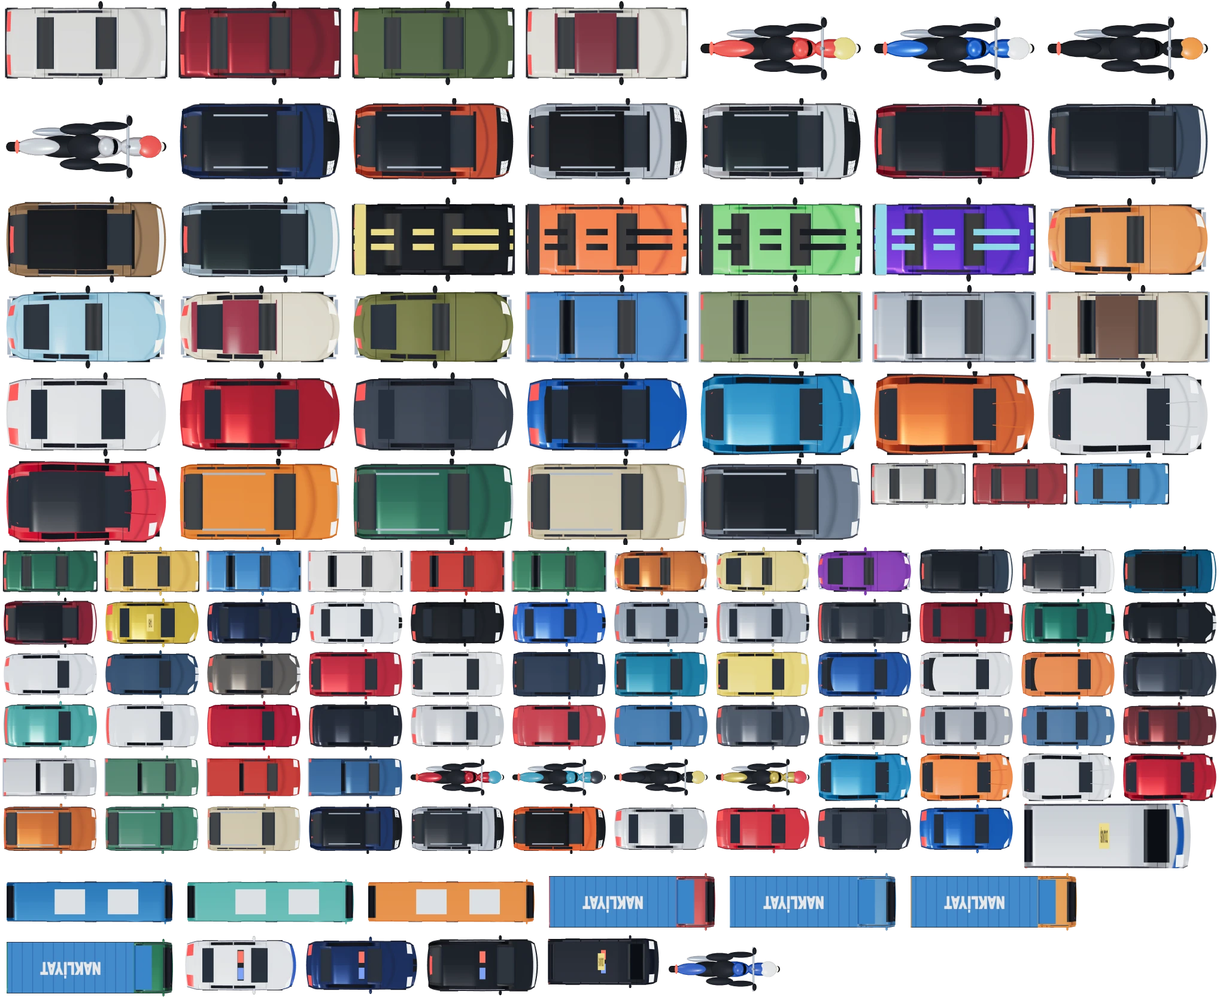
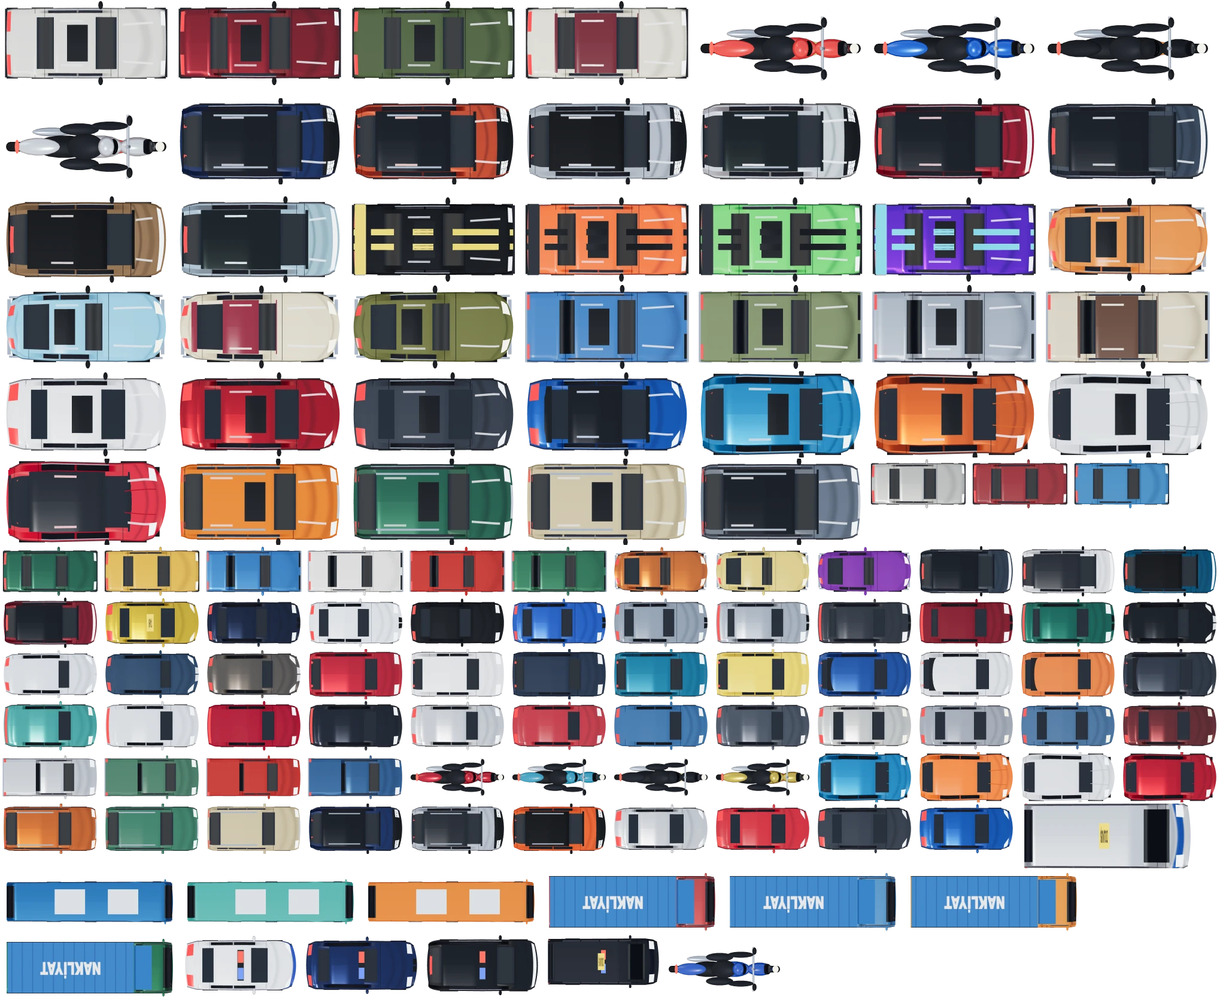
v6 C: araç detayları, jantlar, oyuncu ayrımı, zayıf silüetler; yüksek bina oranı
Claude-Session: https://claude.ai/code/session_017aUZs3MnBgndaW8jCs4UVv

diff --git a/js/app.file.js b/js/app.file.js
@@ -55,8 +55,8 @@ const CONFIG = {
     sistemRing: [4, 9],
     // Bina yüksekliği: share yüksek bina oranı, height kameraya uzanma payı
     // ruin ve work: sıradan mahallede harabe ve inşaat, fire: yangın olasılığı
-    tall: { share: 0.14, height: [0.1, 0.24], maxPerChunk: 14 },
-    ruin: 0.035, work: 0.04, fire: 0.008, ruinFire: 0.2,
+    tall: { share: 0.62, height: [0.16, 0.42], maxPerChunk: 16 },
+    ruin: 0.035, work: 0.04, fire: 0.008, ruinFire: 0.07,
     // Otoban: her satırı doğudan batıya kesen geniş yol. every: kaç chunk'ta bir, y0: bant başlangıç karosu
     // half: bir yönün karo sayısı, lanes: yön başına şerit
     highway: { every: 10, offset: 2, y0: 10, half: 5, lanes: 4 },
@@ -204,6 +204,9 @@ const CONFIG = {
     beamPull: 300, // Oyuncuyu merkeze çekme
     beamSlow: 0.55, // Işın altında hız kaybı (saniyede oran)
   },
+
+  // Oyuncu aracının altındaki ışık: NPC'lerden ayrılır
+  playerGlow: { alpha: 0.34, scale: 1.5 },
 
   // Derin su: sahil, göl, gölet. Sığ suya girilir, derine düşen araç batar
   water: { sinkTime: 2.3, bubbleEvery: 0.06, shrink: 0.5, spin: 1.5, deepProbe: 6 },
@@ -1385,7 +1388,7 @@ class World {
       // Tohumdan türetilir: rastgele sayı dizisini bozmaz
       const h = ((r.seed * 2654435761) >>> 0) / 4294967296;
       if ((tower || (plain && h < T.share)) && c.talls.length < T.maxPerChunk) {
-        r.tall = T.height[0] + (T.height[1] - T.height[0]) * (tower ? 0.45 + 0.55 * h : h / T.share * 0.55);
+        r.tall = T.height[0] + (T.height[1] - T.height[0]) * (tower ? 0.5 + 0.5 * h : (h / T.share) * 0.6);
         if (r.style === S.SKYSCRAPER) r.tall = T.height[1];
         c.talls.push(r);
       }
@@ -6569,7 +6572,7 @@ function sheetSprite(key, len) {
   g.shadowColor = 'rgba(0,0,0,.95)'; g.shadowBlur = 3.6 * q;
   g.drawImage(ATLAS.img, x, y, w, h, 0, 0, w, h);
   g.drawImage(ATLAS.img, x, y, w, h, 0, 0, w, h);
-  g.shadowColor = 'rgba(255,255,255,.8)'; g.shadowBlur = 1 * q;
+  g.shadowColor = 'rgba(255,255,255,.9)'; g.shadowBlur = 1.2 * q;
   g.drawImage(ATLAS.img, x, y, w, h, 0, 0, w, h);
   g.shadowColor = 'transparent'; g.shadowBlur = 0;
   g.drawImage(ATLAS.img, x, y, w, h, 0, 0, w, h);
@@ -6724,8 +6727,8 @@ const CAR_MODELS = {
     win: [[0.37, 0.56], [0.57, 0.77]], seams: [0.27, 0.565, 0.78], handles: [0.54, 0.75], hood: 0.27, trunk: 0.88,
     top: [{ s0: 0.035, s1: 0.085, a: 0.48, b: 0.9, b1: 0.97, a1: 0.8, c: LED, glow: 1 }, { s0: 0.93, s1: 0.99, a: 0.42, b: 0.92, c: RED, glow: 1 }],
     front(d) {
-      d.poly([[-0.42, 0.72], [0.42, 0.72], [0.34, 0.54], [-0.34, 0.54]], BLK);
-      d.polyLine([[-0.42, 0.72], [0.42, 0.72], [0.34, 0.54], [-0.34, 0.54]], CRM, 0.02);
+      d.poly([[-0.5, 0.74], [0.5, 0.74], [0.38, 0.52], [-0.38, 0.52]], BLK);
+      d.polyLine([[-0.5, 0.74], [0.5, 0.74], [0.38, 0.52], [-0.38, 0.52]], CRM, 0.028);
       for (let z = 0.58; z < 0.7; z += 0.04) d.box(0, z, 0.68, 0.012, CRM);
       d.polyB([[0.46, 0.76], [0.86, 0.84], [0.8, 0.72], [0.48, 0.68]], LED);
       d.box(0, 0.32, 1.1, 0.12, BLK, 0.03);
@@ -6794,8 +6797,8 @@ const CAR_MODELS = {
     features: ['Uzun kaput, kabin geride, sportif sedan', 'İkiz böbrek ızgara', 'Köşeli çift halkalı far', 'C direğinde geriye kıvrılan cam ucu', 'L biçimli yatay stoplar'],
     plan: [[0, 0.78], [0.03, 0.92], [0.12, 0.98], [0.5, 1], [0.93, 0.98], [1, 0.86]],
     deck: [[0, 0.58], [0.03, 0.74], [0.3, 0.92], [0.4, 0.96], [0.82, 1.0], [0.97, 0.99], [1, 0.76]],
-    roof: [[0.3, 0.92], [0.46, 1.38], [0.6, 1.44], [0.76, 1.38], [0.88, 1.02], [0.9, 1.0]],
-    win: [[0.41, 0.59], [0.6, 0.79]], seams: [0.33, 0.6, 0.8], handles: [0.57, 0.77], hood: 0.33, trunk: 0.89,
+    roof: [[0.34, 0.94], [0.49, 1.38], [0.62, 1.44], [0.78, 1.38], [0.9, 1.02], [0.92, 1.0]],
+    win: [[0.44, 0.61], [0.62, 0.8]], seams: [0.33, 0.6, 0.8], handles: [0.57, 0.77], hood: 0.33, trunk: 0.89,
     top: [{ s0: 0.035, s1: 0.085, a: 0.5, b: 0.92, c: LED, glow: 1 }, { s0: 0.955, s1: 0.99, a: 0.45, b: 0.92, c: RED, glow: 1 }, { s0: 0.0, s1: 0.035, a: 0.03, b: 0.3, c: BLK }],
     front(d) {
       for (const s of [-1, 1]) { d.round(s * 0.17, 0.62, 0.3, 0.2, CRM, 0.05); d.round(s * 0.17, 0.62, 0.26, 0.17, BLK, 0.04); for (let y = -0.1; y <= 0.1; y += 0.04) d.box(s * 0.17 + y, 0.62, 0.012, 0.15, '#6a727c'); }
@@ -6811,7 +6814,7 @@ const CAR_MODELS = {
     features: ['Keskin omuz çizgili, yatay duruşlu sedan', 'Tek parça altıgen dev ızgara', 'Dar yatay LED far', 'Düz bagaj kapağı', 'Boydan boya ışık bandı'],
     plan: [[0, 0.8], [0.025, 0.93], [0.1, 0.99], [0.5, 1], [0.95, 0.99], [1, 0.88]],
     deck: [[0, 0.6], [0.03, 0.76], [0.26, 0.93], [0.34, 0.97], [0.82, 1.03], [0.975, 1.03], [1, 0.8]],
-    roof: [[0.26, 0.93], [0.43, 1.37], [0.58, 1.43], [0.75, 1.37], [0.875, 1.05], [0.89, 1.03]],
+    roof: [[0.26, 0.93], [0.42, 1.38], [0.5, 1.43], [0.7, 1.43], [0.8, 1.32], [0.88, 1.05], [0.895, 1.03]],
     win: [[0.38, 0.57], [0.58, 0.77]], seams: [0.3, 0.58, 0.79], handles: [0.55, 0.75], hood: 0.3, trunk: 0.885,
     top: [{ s0: 0.03, s1: 0.09, a: 0.46, b: 0.94, c: LED, glow: 1 }, { s0: 0.965, s1: 0.992, a: 0, b: 0.93, c: RED, glow: 1 }, { s0: 0, s1: 0.03, a: 0.05, b: 0.42, c: BLK }],
     front(d) {
@@ -6829,7 +6832,7 @@ const CAR_MODELS = {
     features: ['Yumuşak kavisli lüks sedan, yay çizen tavan', 'Ortada iki yatay barlı krom ızgara', 'Kaput ucunda dik amblem', 'Geriye uzanan oval farlar', 'Yuvarlak omuzlu bagaj, oval stop'],
     plan: [[0, 0.76], [0.03, 0.9], [0.12, 0.98], [0.5, 1], [0.92, 0.97], [1, 0.82]],
     deck: [[0, 0.6], [0.03, 0.76], [0.28, 0.93], [0.38, 0.97], [0.8, 1.02], [0.96, 1.0], [1, 0.78]],
-    roof: [[0.28, 0.93], [0.44, 1.38], [0.58, 1.45], [0.74, 1.38], [0.89, 1.04], [0.91, 1.02]],
+    roof: [[0.28, 0.93], [0.42, 1.36], [0.54, 1.45], [0.66, 1.44], [0.78, 1.32], [0.9, 1.04], [0.92, 1.02]],
     win: [[0.4, 0.59], [0.6, 0.79]], seams: [0.31, 0.6, 0.8], handles: [0.57, 0.77], hood: 0.31, trunk: 0.9, hoodStar: 1,
     top: [{ s0: 0.04, s1: 0.11, a: 0.5, b: 0.86, b1: 0.95, a1: 0.8, c: LED, glow: 1 }, { s0: 0.95, s1: 0.99, a: 0.45, b: 0.9, c: RED, glow: 1 }, { s0: 0, s1: 0.035, a: 0.03, b: 0.4, c: CRM }],
     front(d) {
@@ -6847,7 +6850,7 @@ const CAR_MODELS = {
     plan: [[0, 0.82], [0.025, 0.94], [0.1, 0.99], [0.5, 1], [0.94, 0.99], [1, 0.9]],
     deck: [[0, 0.62], [0.03, 0.8], [0.26, 0.97], [0.32, 1.0], [0.8, 1.04], [0.97, 1.05], [1, 0.82]],
     roof: [[0.26, 0.97], [0.41, 1.4], [0.58, 1.45], [0.87, 1.4], [0.965, 1.1], [0.98, 1.05]],
-    win: [[0.38, 0.58], [0.59, 0.76]], seams: [0.3, 0.585, 0.8], handles: [0.56, 0.75], hood: 0.3, trunk: 0.96,
+    win: [[0.38, 0.58], [0.59, 0.72]], seams: [0.3, 0.585, 0.8], handles: [0.56, 0.72], hood: 0.3, trunk: 0.96,
     top: [{ s0: 0.025, s1: 0.08, a: 0.48, b: 0.94, c: LED, glow: 1 }, { s0: 0.96, s1: 0.992, a: 0.5, b: 0.94, c: RED, glow: 1 }],
     front(d) {
       d.box(0, 0.72, 1.56, 0.1, BLK, 0.02); d.box(0, 0.74, 1.58, 0.015, CRM);
@@ -7101,8 +7104,11 @@ function wheelTexture(THREE, style, premium, caliper) {
   const g = c.getContext('2d');
   g.translate(128, 128);
   g.fillStyle = '#0a0b0e'; g.beginPath(); g.arc(0, 0, 128, 0, 7); g.fill();
+  g.strokeStyle = '#26282d'; g.lineWidth = 5; g.beginPath(); g.arc(0, 0, 113, 0, 7); g.stroke();
   const rimC = premium ? '#eef2f6' : '#b9c2cc';
-  g.fillStyle = '#20242a'; g.beginPath(); g.arc(0, 0, 96, 0, 7); g.fill();
+  const deep = g.createRadialGradient(0, 0, 20, 0, 0, 96);
+  deep.addColorStop(0, '#34383f'); deep.addColorStop(1, '#0e1014');
+  g.fillStyle = deep; g.beginPath(); g.arc(0, 0, 96, 0, 7); g.fill();
   if (premium && caliper) { g.fillStyle = caliper; g.fillRect(40, -30, 34, 60); }
   g.strokeStyle = rimC; g.fillStyle = rimC; g.lineCap = 'round';
   g.lineWidth = 7; g.beginPath(); g.arc(0, 0, 96, 0, 7); g.stroke();
@@ -7121,6 +7127,9 @@ function wheelTexture(THREE, style, premium, caliper) {
     g.beginPath(); g.arc(0, 0, 26, 0, 7); g.fill();
   }
   g.fillStyle = '#2a2e35'; g.beginPath(); g.arc(0, 0, 12, 0, 7); g.fill();
+  g.fillStyle = '#9aa3ad';
+  for (let i = 0; i < 5; i++) { const a = (i / 5) * 6.283 + 0.3; g.beginPath(); g.arc(Math.cos(a) * 20, Math.sin(a) * 20, 3.4, 0, 7); g.fill(); }
+  g.strokeStyle = premium ? '#ffffff' : '#dfe4e9'; g.lineWidth = 3; g.beginPath(); g.arc(0, 0, 99, 0, 7); g.stroke();
   const t = new THREE.CanvasTexture(c);
   t.colorSpace = THREE.SRGBColorSpace;
   return t;
@@ -7371,8 +7380,14 @@ function buildCar(THREE, id, paint) {
   }
   if (m.roofSpoiler) addBox(THREE, group, 0.34, 0.05, W * 0.74, (m.roof[m.roof.length - 2][0] - 0.1) * L, roofF(m.roof[m.roof.length - 2][0] - 0.1) + 0.02, 0, plastic);
   if (m.hoodStar) { const st = new THREE.Mesh(new THREE.CylinderGeometry(0.008, 0.02, 0.09, 6), chromeMat); st.position.set(0.05, deckF(0.02) + 0.09, 0); group.add(st); }
-  if (m.chromeBelt) {
-    const a = 0.3; const bd = 0.8;
+  if (paint.premium && paint.sprite) {
+    const roofA = m.win[0][0] + 0.06; const roofB = m.win[m.win.length - 1][1] - 0.08;
+    if (!m.roofBlack && !paint.roof) patch(roofA + 0.03, roofA + 0.16, 0, 0.52, 0, 0.52, '#0b1016', 0);
+    patch(0.08, Math.max(0.1, m.hood - 0.03), 0.56, 0.62, 0.5, 0.56, '#' + new THREE.Color(paint.color).lerp(new THREE.Color('#ffffff'), 0.5).getHexString(), 0);
+    patch(roofB - 0.14, roofB, 0.6, 0.66, 0.6, 0.66, '#' + new THREE.Color(paint.color).lerp(new THREE.Color('#ffffff'), 0.35).getHexString(), 0);
+  }
+  if (m.chromeBelt || paint.premium) {
+    const a = m.win[0][0]; const bd = m.win[m.win.length - 1][1];
     for (let i = 0; i < 20; i++) {
       const s = a + ((bd - a) * (i + 0.5)) / 20;
       for (const sg of [1, -1]) addBox(THREE, group, ((bd - a) * L) / 20 + 0.02, 0.025, 0.02, s * L, deckF(s) + 0.05, sg * (beltY(s) + 0.012), chromeMat);
@@ -7443,7 +7458,7 @@ function addCap(THREE, group, m, rear, tex, paintMat, halfW, bow, bottomAt, deck
     }
     if (i) { const a = (i - 1) * 2; if (rear) quad(panel, a, a + 2, a + 3, a + 1); else quad(panel, a, a + 1, a + 3, a + 2); }
   }
-  const mat = new THREE.MeshStandardMaterial({ map: tex, transparent: true, alphaTest: 0.04, roughness: 0.32, metalness: 0.15, emissive: '#ffffff', emissiveMap: tex, emissiveIntensity: 0.35 });
+  const mat = new THREE.MeshStandardMaterial({ map: tex, transparent: true, alphaTest: 0.04, roughness: 0.32, metalness: 0.15, emissive: '#ffffff', emissiveMap: tex, emissiveIntensity: 0.16 });
   group.add(mesh(THREE, panel, mat));
 }
 
@@ -7469,6 +7484,11 @@ function sideTexture(THREE, m, paint) {
   g.strokeStyle = 'rgba(0,0,0,.25)';
   g.lineWidth = 2;
   g.beginPath(); g.moveTo(0, Y(belt - 0.05)); g.lineTo(1024, Y(belt - 0.05)); g.stroke();
+  const ao = g.createLinearGradient(0, Y(belt * 0.62), 0, Y(0.1));
+  ao.addColorStop(0, 'rgba(0,0,0,0)'); ao.addColorStop(1, 'rgba(0,0,0,.42)');
+  g.fillStyle = ao; g.fillRect(0, Y(belt * 0.62), 1024, 256);
+  // Omuz kırımı: üstü aydınlık, altı gölge
+  g.fillStyle = 'rgba(0,0,0,.14)'; g.fillRect(0, Y(belt - 0.1), 1024, 5);
   if (m.clad) { g.fillStyle = '#1b1e23'; g.fillRect(0, Y(m.clad), 1024, 256 - Y(m.clad)); }
   if (m.skirt) { g.fillStyle = paint.accent || '#ffd23f'; g.fillRect(0, Y(0.3), 1024, 8); }
   if (m.sideStripe) { g.fillStyle = paint.accent || '#f6efe0'; g.fillRect(0, Y(m.sideStripe), 1024, 6); }
@@ -7507,7 +7527,9 @@ function buildMoto(THREE, paint) {
   tyre(0.32); tyre(1.78);
   ell(0.3, 0.13, 0.13, 0.86, 0.9, 0, pm); // Depo
   ell(0.24, 0.14, 0.11, 0.38, 0.88, 0, pm); // Kaporta
-  ell(0.16, 0.05, 0.13, 0.22, 0.98, 0, acc);
+  const shield = ell(0.04, 0.16, 0.09, 0.24, 1.04, 0, new THREE.MeshPhysicalMaterial({ color: '#10161d', metalness: 0.4, roughness: 0.08, clearcoat: 1 })); shield.rotation.z = 0.5;
+  ell(0.42, 0.06, 0.09, 0.82, 0.68, 0, acc); // Kaporta altı
+  for (const [a, b, c2, d] of [[0.45, 0.8, 1.2, 0.8], [0.45, 0.72, 1.2, 0.52], [0.9, 0.5, 1.5, 0.84]]) { const fr = new THREE.Mesh(new THREE.CylinderGeometry(0.018, 0.018, Math.hypot(c2 - a, d - b), 6), chrome); fr.position.set((a + c2) / 2, (b + d) / 2, 0); fr.rotation.z = Math.atan2(d - b, c2 - a) - Math.PI / 2; g.add(fr); }
   ell(0.4, 0.09, 0.13, 1.34, 0.86, 0, dark); // Sele
   const tail = ell(0.3, 0.07, 0.1, 1.68, 0.96, 0, pm); tail.rotation.z = -0.3;
   ell(0.2, 0.14, 0.11, 0.95, 0.5, 0, dark); // Motor
@@ -9531,6 +9553,15 @@ class Renderer {
       ctx.setTransform(this.s, 0, 0, this.s, this.ox, this.oy);
       return;
     }
+    // Oyuncu aracının altında boya rengine yakın ışık
+    const PG = CONFIG.playerGlow;
+    this.place(p.x, p.y, p.a);
+    ctx.globalCompositeOperation = 'lighter';
+    ctx.globalAlpha = PG.alpha * (game.ghostT > 0 ? 0.5 : 1);
+    const gw = p.len * PG.scale; const gh = p.wid * PG.scale * 1.3;
+    ctx.drawImage(this.sprites.auras[3], -gw / 2, -gh / 2, gw, gh);
+    ctx.globalCompositeOperation = 'source-over';
+    ctx.globalAlpha = game.ghostT > 0 ? 0.5 : 1;
     this.drawBody(this.playerSprite, p, k, k);
     ctx.globalAlpha = 1;
     if (game.stage >= 2) {

diff --git a/js/car3d.js b/js/car3d.js
@@ -111,8 +111,11 @@ function wheelTexture(THREE, style, premium, caliper) {
   const g = c.getContext('2d');
   g.translate(128, 128);
   g.fillStyle = '#0a0b0e'; g.beginPath(); g.arc(0, 0, 128, 0, 7); g.fill();
+  g.strokeStyle = '#26282d'; g.lineWidth = 5; g.beginPath(); g.arc(0, 0, 113, 0, 7); g.stroke();
   const rimC = premium ? '#eef2f6' : '#b9c2cc';
-  g.fillStyle = '#20242a'; g.beginPath(); g.arc(0, 0, 96, 0, 7); g.fill();
+  const deep = g.createRadialGradient(0, 0, 20, 0, 0, 96);
+  deep.addColorStop(0, '#34383f'); deep.addColorStop(1, '#0e1014');
+  g.fillStyle = deep; g.beginPath(); g.arc(0, 0, 96, 0, 7); g.fill();
   if (premium && caliper) { g.fillStyle = caliper; g.fillRect(40, -30, 34, 60); }
   g.strokeStyle = rimC; g.fillStyle = rimC; g.lineCap = 'round';
   g.lineWidth = 7; g.beginPath(); g.arc(0, 0, 96, 0, 7); g.stroke();
@@ -131,6 +134,9 @@ function wheelTexture(THREE, style, premium, caliper) {
     g.beginPath(); g.arc(0, 0, 26, 0, 7); g.fill();
   }
   g.fillStyle = '#2a2e35'; g.beginPath(); g.arc(0, 0, 12, 0, 7); g.fill();
+  g.fillStyle = '#9aa3ad';
+  for (let i = 0; i < 5; i++) { const a = (i / 5) * 6.283 + 0.3; g.beginPath(); g.arc(Math.cos(a) * 20, Math.sin(a) * 20, 3.4, 0, 7); g.fill(); }
+  g.strokeStyle = premium ? '#ffffff' : '#dfe4e9'; g.lineWidth = 3; g.beginPath(); g.arc(0, 0, 99, 0, 7); g.stroke();
   const t = new THREE.CanvasTexture(c);
   t.colorSpace = THREE.SRGBColorSpace;
   return t;
@@ -381,8 +387,14 @@ export function buildCar(THREE, id, paint) {
   }
   if (m.roofSpoiler) addBox(THREE, group, 0.34, 0.05, W * 0.74, (m.roof[m.roof.length - 2][0] - 0.1) * L, roofF(m.roof[m.roof.length - 2][0] - 0.1) + 0.02, 0, plastic);
   if (m.hoodStar) { const st = new THREE.Mesh(new THREE.CylinderGeometry(0.008, 0.02, 0.09, 6), chromeMat); st.position.set(0.05, deckF(0.02) + 0.09, 0); group.add(st); }
-  if (m.chromeBelt) {
-    const a = 0.3; const bd = 0.8;
+  if (paint.premium && paint.sprite) {
+    const roofA = m.win[0][0] + 0.06; const roofB = m.win[m.win.length - 1][1] - 0.08;
+    if (!m.roofBlack && !paint.roof) patch(roofA + 0.03, roofA + 0.16, 0, 0.52, 0, 0.52, '#0b1016', 0);
+    patch(0.08, Math.max(0.1, m.hood - 0.03), 0.56, 0.62, 0.5, 0.56, '#' + new THREE.Color(paint.color).lerp(new THREE.Color('#ffffff'), 0.5).getHexString(), 0);
+    patch(roofB - 0.14, roofB, 0.6, 0.66, 0.6, 0.66, '#' + new THREE.Color(paint.color).lerp(new THREE.Color('#ffffff'), 0.35).getHexString(), 0);
+  }
+  if (m.chromeBelt || paint.premium) {
+    const a = m.win[0][0]; const bd = m.win[m.win.length - 1][1];
     for (let i = 0; i < 20; i++) {
       const s = a + ((bd - a) * (i + 0.5)) / 20;
       for (const sg of [1, -1]) addBox(THREE, group, ((bd - a) * L) / 20 + 0.02, 0.025, 0.02, s * L, deckF(s) + 0.05, sg * (beltY(s) + 0.012), chromeMat);
@@ -453,7 +465,7 @@ function addCap(THREE, group, m, rear, tex, paintMat, halfW, bow, bottomAt, deck
     }
     if (i) { const a = (i - 1) * 2; if (rear) quad(panel, a, a + 2, a + 3, a + 1); else quad(panel, a, a + 1, a + 3, a + 2); }
   }
-  const mat = new THREE.MeshStandardMaterial({ map: tex, transparent: true, alphaTest: 0.04, roughness: 0.32, metalness: 0.15, emissive: '#ffffff', emissiveMap: tex, emissiveIntensity: 0.35 });
+  const mat = new THREE.MeshStandardMaterial({ map: tex, transparent: true, alphaTest: 0.04, roughness: 0.32, metalness: 0.15, emissive: '#ffffff', emissiveMap: tex, emissiveIntensity: 0.16 });
   group.add(mesh(THREE, panel, mat));
 }
 
@@ -479,6 +491,11 @@ function sideTexture(THREE, m, paint) {
   g.strokeStyle = 'rgba(0,0,0,.25)';
   g.lineWidth = 2;
   g.beginPath(); g.moveTo(0, Y(belt - 0.05)); g.lineTo(1024, Y(belt - 0.05)); g.stroke();
+  const ao = g.createLinearGradient(0, Y(belt * 0.62), 0, Y(0.1));
+  ao.addColorStop(0, 'rgba(0,0,0,0)'); ao.addColorStop(1, 'rgba(0,0,0,.42)');
+  g.fillStyle = ao; g.fillRect(0, Y(belt * 0.62), 1024, 256);
+  // Omuz kırımı: üstü aydınlık, altı gölge
+  g.fillStyle = 'rgba(0,0,0,.14)'; g.fillRect(0, Y(belt - 0.1), 1024, 5);
   if (m.clad) { g.fillStyle = '#1b1e23'; g.fillRect(0, Y(m.clad), 1024, 256 - Y(m.clad)); }
   if (m.skirt) { g.fillStyle = paint.accent || '#ffd23f'; g.fillRect(0, Y(0.3), 1024, 8); }
   if (m.sideStripe) { g.fillStyle = paint.accent || '#f6efe0'; g.fillRect(0, Y(m.sideStripe), 1024, 6); }
@@ -517,7 +534,9 @@ function buildMoto(THREE, paint) {
   tyre(0.32); tyre(1.78);
   ell(0.3, 0.13, 0.13, 0.86, 0.9, 0, pm); // Depo
   ell(0.24, 0.14, 0.11, 0.38, 0.88, 0, pm); // Kaporta
-  ell(0.16, 0.05, 0.13, 0.22, 0.98, 0, acc);
+  const shield = ell(0.04, 0.16, 0.09, 0.24, 1.04, 0, new THREE.MeshPhysicalMaterial({ color: '#10161d', metalness: 0.4, roughness: 0.08, clearcoat: 1 })); shield.rotation.z = 0.5;
+  ell(0.42, 0.06, 0.09, 0.82, 0.68, 0, acc); // Kaporta altı
+  for (const [a, b, c2, d] of [[0.45, 0.8, 1.2, 0.8], [0.45, 0.72, 1.2, 0.52], [0.9, 0.5, 1.5, 0.84]]) { const fr = new THREE.Mesh(new THREE.CylinderGeometry(0.018, 0.018, Math.hypot(c2 - a, d - b), 6), chrome); fr.position.set((a + c2) / 2, (b + d) / 2, 0); fr.rotation.z = Math.atan2(d - b, c2 - a) - Math.PI / 2; g.add(fr); }
   ell(0.4, 0.09, 0.13, 1.34, 0.86, 0, dark); // Sele
   const tail = ell(0.3, 0.07, 0.1, 1.68, 0.96, 0, pm); tail.rotation.z = -0.3;
   ell(0.2, 0.14, 0.11, 0.95, 0.5, 0, dark); // Motor

diff --git a/js/carmodels.js b/js/carmodels.js
@@ -114,8 +114,8 @@ export const CAR_MODELS = {
     win: [[0.37, 0.56], [0.57, 0.77]], seams: [0.27, 0.565, 0.78], handles: [0.54, 0.75], hood: 0.27, trunk: 0.88,
     top: [{ s0: 0.035, s1: 0.085, a: 0.48, b: 0.9, b1: 0.97, a1: 0.8, c: LED, glow: 1 }, { s0: 0.93, s1: 0.99, a: 0.42, b: 0.92, c: RED, glow: 1 }],
     front(d) {
-      d.poly([[-0.42, 0.72], [0.42, 0.72], [0.34, 0.54], [-0.34, 0.54]], BLK);
-      d.polyLine([[-0.42, 0.72], [0.42, 0.72], [0.34, 0.54], [-0.34, 0.54]], CRM, 0.02);
+      d.poly([[-0.5, 0.74], [0.5, 0.74], [0.38, 0.52], [-0.38, 0.52]], BLK);
+      d.polyLine([[-0.5, 0.74], [0.5, 0.74], [0.38, 0.52], [-0.38, 0.52]], CRM, 0.028);
       for (let z = 0.58; z < 0.7; z += 0.04) d.box(0, z, 0.68, 0.012, CRM);
       d.polyB([[0.46, 0.76], [0.86, 0.84], [0.8, 0.72], [0.48, 0.68]], LED);
       d.box(0, 0.32, 1.1, 0.12, BLK, 0.03);
@@ -184,8 +184,8 @@ export const CAR_MODELS = {
     features: ['Uzun kaput, kabin geride, sportif sedan', 'İkiz böbrek ızgara', 'Köşeli çift halkalı far', 'C direğinde geriye kıvrılan cam ucu', 'L biçimli yatay stoplar'],
     plan: [[0, 0.78], [0.03, 0.92], [0.12, 0.98], [0.5, 1], [0.93, 0.98], [1, 0.86]],
     deck: [[0, 0.58], [0.03, 0.74], [0.3, 0.92], [0.4, 0.96], [0.82, 1.0], [0.97, 0.99], [1, 0.76]],
-    roof: [[0.3, 0.92], [0.46, 1.38], [0.6, 1.44], [0.76, 1.38], [0.88, 1.02], [0.9, 1.0]],
-    win: [[0.41, 0.59], [0.6, 0.79]], seams: [0.33, 0.6, 0.8], handles: [0.57, 0.77], hood: 0.33, trunk: 0.89,
+    roof: [[0.34, 0.94], [0.49, 1.38], [0.62, 1.44], [0.78, 1.38], [0.9, 1.02], [0.92, 1.0]],
+    win: [[0.44, 0.61], [0.62, 0.8]], seams: [0.33, 0.6, 0.8], handles: [0.57, 0.77], hood: 0.33, trunk: 0.89,
     top: [{ s0: 0.035, s1: 0.085, a: 0.5, b: 0.92, c: LED, glow: 1 }, { s0: 0.955, s1: 0.99, a: 0.45, b: 0.92, c: RED, glow: 1 }, { s0: 0.0, s1: 0.035, a: 0.03, b: 0.3, c: BLK }],
     front(d) {
       for (const s of [-1, 1]) { d.round(s * 0.17, 0.62, 0.3, 0.2, CRM, 0.05); d.round(s * 0.17, 0.62, 0.26, 0.17, BLK, 0.04); for (let y = -0.1; y <= 0.1; y += 0.04) d.box(s * 0.17 + y, 0.62, 0.012, 0.15, '#6a727c'); }
@@ -201,7 +201,7 @@ export const CAR_MODELS = {
     features: ['Keskin omuz çizgili, yatay duruşlu sedan', 'Tek parça altıgen dev ızgara', 'Dar yatay LED far', 'Düz bagaj kapağı', 'Boydan boya ışık bandı'],
     plan: [[0, 0.8], [0.025, 0.93], [0.1, 0.99], [0.5, 1], [0.95, 0.99], [1, 0.88]],
     deck: [[0, 0.6], [0.03, 0.76], [0.26, 0.93], [0.34, 0.97], [0.82, 1.03], [0.975, 1.03], [1, 0.8]],
-    roof: [[0.26, 0.93], [0.43, 1.37], [0.58, 1.43], [0.75, 1.37], [0.875, 1.05], [0.89, 1.03]],
+    roof: [[0.26, 0.93], [0.42, 1.38], [0.5, 1.43], [0.7, 1.43], [0.8, 1.32], [0.88, 1.05], [0.895, 1.03]],
     win: [[0.38, 0.57], [0.58, 0.77]], seams: [0.3, 0.58, 0.79], handles: [0.55, 0.75], hood: 0.3, trunk: 0.885,
     top: [{ s0: 0.03, s1: 0.09, a: 0.46, b: 0.94, c: LED, glow: 1 }, { s0: 0.965, s1: 0.992, a: 0, b: 0.93, c: RED, glow: 1 }, { s0: 0, s1: 0.03, a: 0.05, b: 0.42, c: BLK }],
     front(d) {
@@ -219,7 +219,7 @@ export const CAR_MODELS = {
     features: ['Yumuşak kavisli lüks sedan, yay çizen tavan', 'Ortada iki yatay barlı krom ızgara', 'Kaput ucunda dik amblem', 'Geriye uzanan oval farlar', 'Yuvarlak omuzlu bagaj, oval stop'],
     plan: [[0, 0.76], [0.03, 0.9], [0.12, 0.98], [0.5, 1], [0.92, 0.97], [1, 0.82]],
     deck: [[0, 0.6], [0.03, 0.76], [0.28, 0.93], [0.38, 0.97], [0.8, 1.02], [0.96, 1.0], [1, 0.78]],
-    roof: [[0.28, 0.93], [0.44, 1.38], [0.58, 1.45], [0.74, 1.38], [0.89, 1.04], [0.91, 1.02]],
+    roof: [[0.28, 0.93], [0.42, 1.36], [0.54, 1.45], [0.66, 1.44], [0.78, 1.32], [0.9, 1.04], [0.92, 1.02]],
     win: [[0.4, 0.59], [0.6, 0.79]], seams: [0.31, 0.6, 0.8], handles: [0.57, 0.77], hood: 0.31, trunk: 0.9, hoodStar: 1,
     top: [{ s0: 0.04, s1: 0.11, a: 0.5, b: 0.86, b1: 0.95, a1: 0.8, c: LED, glow: 1 }, { s0: 0.95, s1: 0.99, a: 0.45, b: 0.9, c: RED, glow: 1 }, { s0: 0, s1: 0.035, a: 0.03, b: 0.4, c: CRM }],
     front(d) {
@@ -237,7 +237,7 @@ export const CAR_MODELS = {
     plan: [[0, 0.82], [0.025, 0.94], [0.1, 0.99], [0.5, 1], [0.94, 0.99], [1, 0.9]],
     deck: [[0, 0.62], [0.03, 0.8], [0.26, 0.97], [0.32, 1.0], [0.8, 1.04], [0.97, 1.05], [1, 0.82]],
     roof: [[0.26, 0.97], [0.41, 1.4], [0.58, 1.45], [0.87, 1.4], [0.965, 1.1], [0.98, 1.05]],
-    win: [[0.38, 0.58], [0.59, 0.76]], seams: [0.3, 0.585, 0.8], handles: [0.56, 0.75], hood: 0.3, trunk: 0.96,
+    win: [[0.38, 0.58], [0.59, 0.72]], seams: [0.3, 0.585, 0.8], handles: [0.56, 0.72], hood: 0.3, trunk: 0.96,
     top: [{ s0: 0.025, s1: 0.08, a: 0.48, b: 0.94, c: LED, glow: 1 }, { s0: 0.96, s1: 0.992, a: 0.5, b: 0.94, c: RED, glow: 1 }],
     front(d) {
       d.box(0, 0.72, 1.56, 0.1, BLK, 0.02); d.box(0, 0.74, 1.58, 0.015, CRM);

diff --git a/js/config.js b/js/config.js
@@ -51,8 +51,8 @@ export const CONFIG = {
     sistemRing: [4, 9],
     // Bina yüksekliği: share yüksek bina oranı, height kameraya uzanma payı
     // ruin ve work: sıradan mahallede harabe ve inşaat, fire: yangın olasılığı
-    tall: { share: 0.14, height: [0.1, 0.24], maxPerChunk: 14 },
-    ruin: 0.035, work: 0.04, fire: 0.008, ruinFire: 0.2,
+    tall: { share: 0.62, height: [0.16, 0.42], maxPerChunk: 16 },
+    ruin: 0.035, work: 0.04, fire: 0.008, ruinFire: 0.07,
     // Otoban: her satırı doğudan batıya kesen geniş yol. every: kaç chunk'ta bir, y0: bant başlangıç karosu
     // half: bir yönün karo sayısı, lanes: yön başına şerit
     highway: { every: 10, offset: 2, y0: 10, half: 5, lanes: 4 },
@@ -200,6 +200,9 @@ export const CONFIG = {
     beamPull: 300, // Oyuncuyu merkeze çekme
     beamSlow: 0.55, // Işın altında hız kaybı (saniyede oran)
   },
+
+  // Oyuncu aracının altındaki ışık: NPC'lerden ayrılır
+  playerGlow: { alpha: 0.34, scale: 1.5 },
 
   // Derin su: sahil, göl, gölet. Sığ suya girilir, derine düşen araç batar
   water: { sinkTime: 2.3, bubbleEvery: 0.06, shrink: 0.5, spin: 1.5, deepProbe: 6 },

diff --git a/js/render.js b/js/render.js
@@ -1587,6 +1587,15 @@ export class Renderer {
       ctx.setTransform(this.s, 0, 0, this.s, this.ox, this.oy);
       return;
     }
+    // Oyuncu aracının altında boya rengine yakın ışık
+    const PG = CONFIG.playerGlow;
+    this.place(p.x, p.y, p.a);
+    ctx.globalCompositeOperation = 'lighter';
+    ctx.globalAlpha = PG.alpha * (game.ghostT > 0 ? 0.5 : 1);
+    const gw = p.len * PG.scale; const gh = p.wid * PG.scale * 1.3;
+    ctx.drawImage(this.sprites.auras[3], -gw / 2, -gh / 2, gw, gh);
+    ctx.globalCompositeOperation = 'source-over';
+    ctx.globalAlpha = game.ghostT > 0 ? 0.5 : 1;
     this.drawBody(this.playerSprite, p, k, k);
     ctx.globalAlpha = 1;
     if (game.stage >= 2) {

diff --git a/js/world.js b/js/world.js
@@ -873,7 +873,7 @@ export class World {
       // Tohumdan türetilir: rastgele sayı dizisini bozmaz
       const h = ((r.seed * 2654435761) >>> 0) / 4294967296;
       if ((tower || (plain && h < T.share)) && c.talls.length < T.maxPerChunk) {
-        r.tall = T.height[0] + (T.height[1] - T.height[0]) * (tower ? 0.45 + 0.55 * h : h / T.share * 0.55);
+        r.tall = T.height[0] + (T.height[1] - T.height[0]) * (tower ? 0.5 + 0.5 * h : (h / T.share) * 0.6);
         if (r.style === S.SKYSCRAPER) r.tall = T.height[1];
         c.talls.push(r);
       }

diff --git a/js/sheet.js b/js/sheet.js
@@ -32,7 +32,7 @@ export function sheetSprite(key, len) {
   g.shadowColor = 'rgba(0,0,0,.95)'; g.shadowBlur = 3.6 * q;
   g.drawImage(ATLAS.img, x, y, w, h, 0, 0, w, h);
   g.drawImage(ATLAS.img, x, y, w, h, 0, 0, w, h);
-  g.shadowColor = 'rgba(255,255,255,.8)'; g.shadowBlur = 1 * q;
+  g.shadowColor = 'rgba(255,255,255,.9)'; g.shadowBlur = 1.2 * q;
   g.drawImage(ATLAS.img, x, y, w, h, 0, 0, w, h);
   g.shadowColor = 'transparent'; g.shadowBlur = 0;
   g.drawImage(ATLAS.img, x, y, w, h, 0, 0, w, h);
